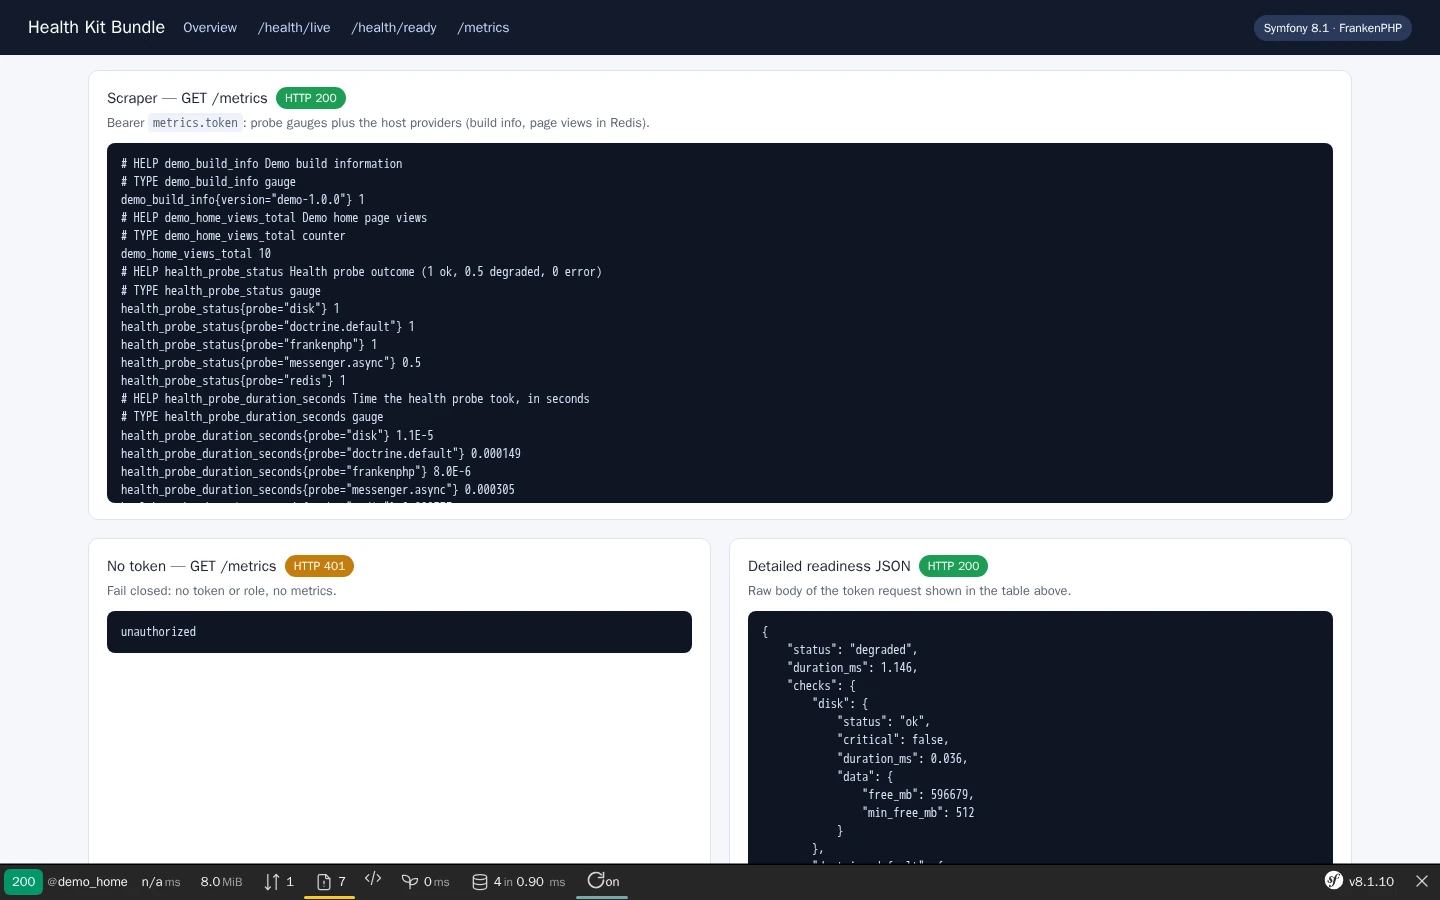
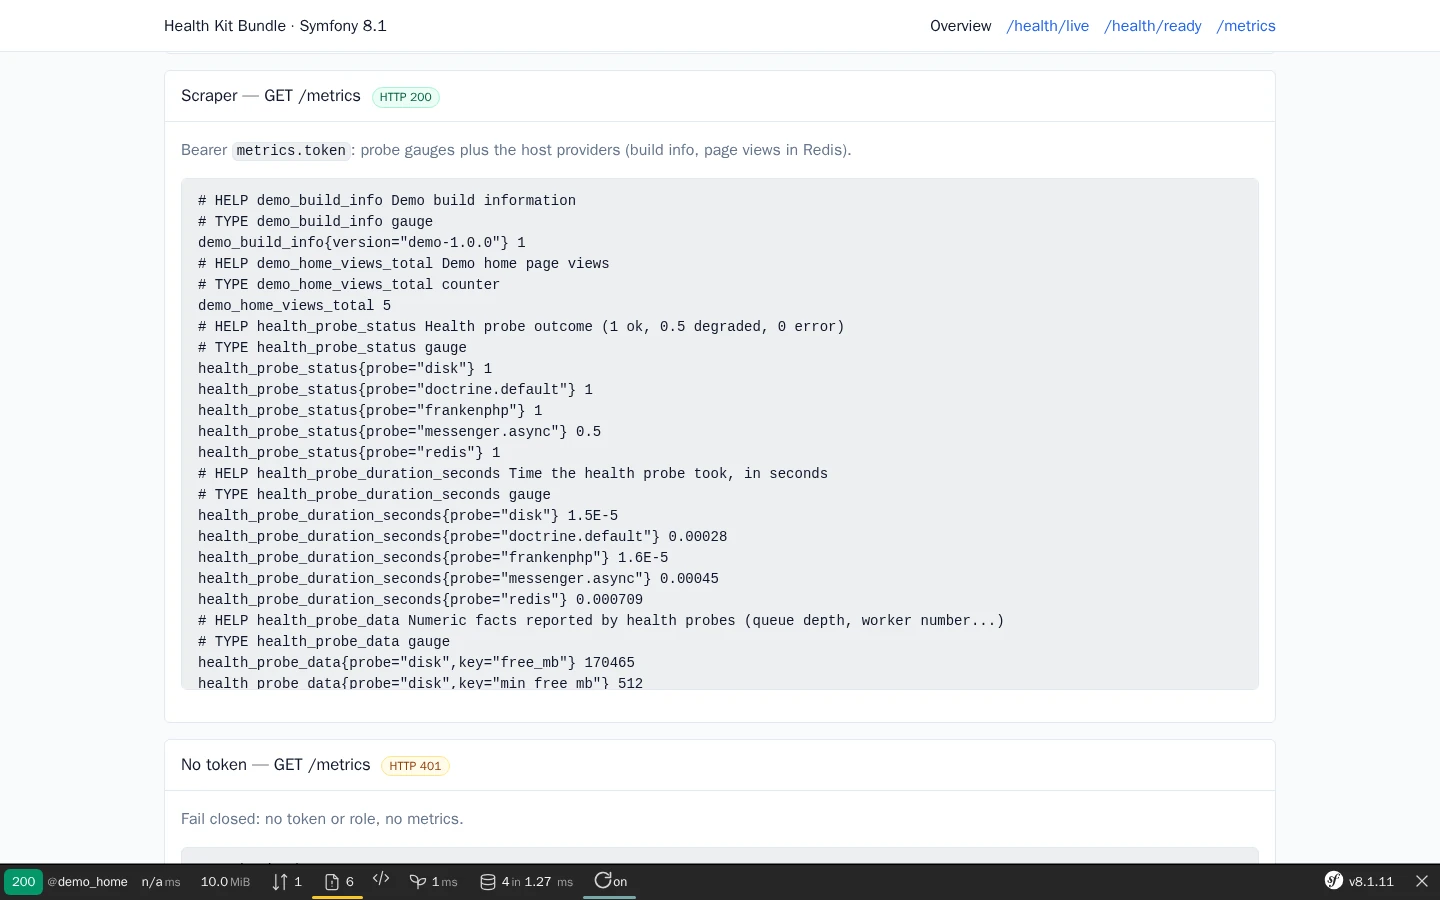
chore(docs): refresh demo screenshots on the UiKit base style (#17)
* chore(docs): refresh demo screenshots on the UiKit base style

* chore(docs): demo opts into UiKit base theme, masthead nav fixed, screenshots regenerated

* chore(demo): drop Flex recipe files added by the dependency update

* chore(demo): drop the empty translations/.gitignore added by the update

diff --git a/demo/symfony8/config/reference.php b/demo/symfony8/config/reference.php
@@ -1060,6 +1060,7 @@ use Symfony\Component\Config\Loader\ParamConfigurator as Param;
  *             testid?: scalar|Param|null, // Default: null
  *         }>,
  *     },
+ *     base_stylesheet?: bool|Param, // 2.51: link UiKit's opt-in default theme (css/nowo-ui-base.css) before nowo-ui.css in the document / error layouts: body font stack, page gutters and masthead height for hosts that bring no CSS framework and no theme stylesheet. Its rules nest in `@layer theme.nowo-ui-base`, below `base`, so a framework, host utilities and unlayered host CSS still win. Leave it false when the host already has a framework or a theme file. // Default: false
  *     font_preload?: array{ // 2.21: <link rel="preload" as="font" crossorigin> tags printed in the <head> of the document and error layouts (Twig nowo_ui_font_preload()) for the fonts painted above the fold. Empty = no tags.
  *         fonts?: list<scalar|Param|null>,
  *         manifest?: array{ // Hashed builds: pick the fonts from a Vite manifest (.vite/manifest.json). A missing manifest (dev server) prints nothing.

diff --git a/docs/CHANGELOG.md b/docs/CHANGELOG.md
@@ -5,6 +5,11 @@ All notable changes to this project are documented here. The format follows
 
 ## [Unreleased]
 
+### Changed
+
+- docs: demo screenshots regenerated on the UiKit base style
+- demo: opt into UiKit 2.51 `nowo_ui_kit.base_stylesheet`, use `nowo-ui-header__nav` for the masthead nav, screenshots regenerated with the themed shell
+
 ## [1.2.0] - 2026-11-13
 
 ### Added
